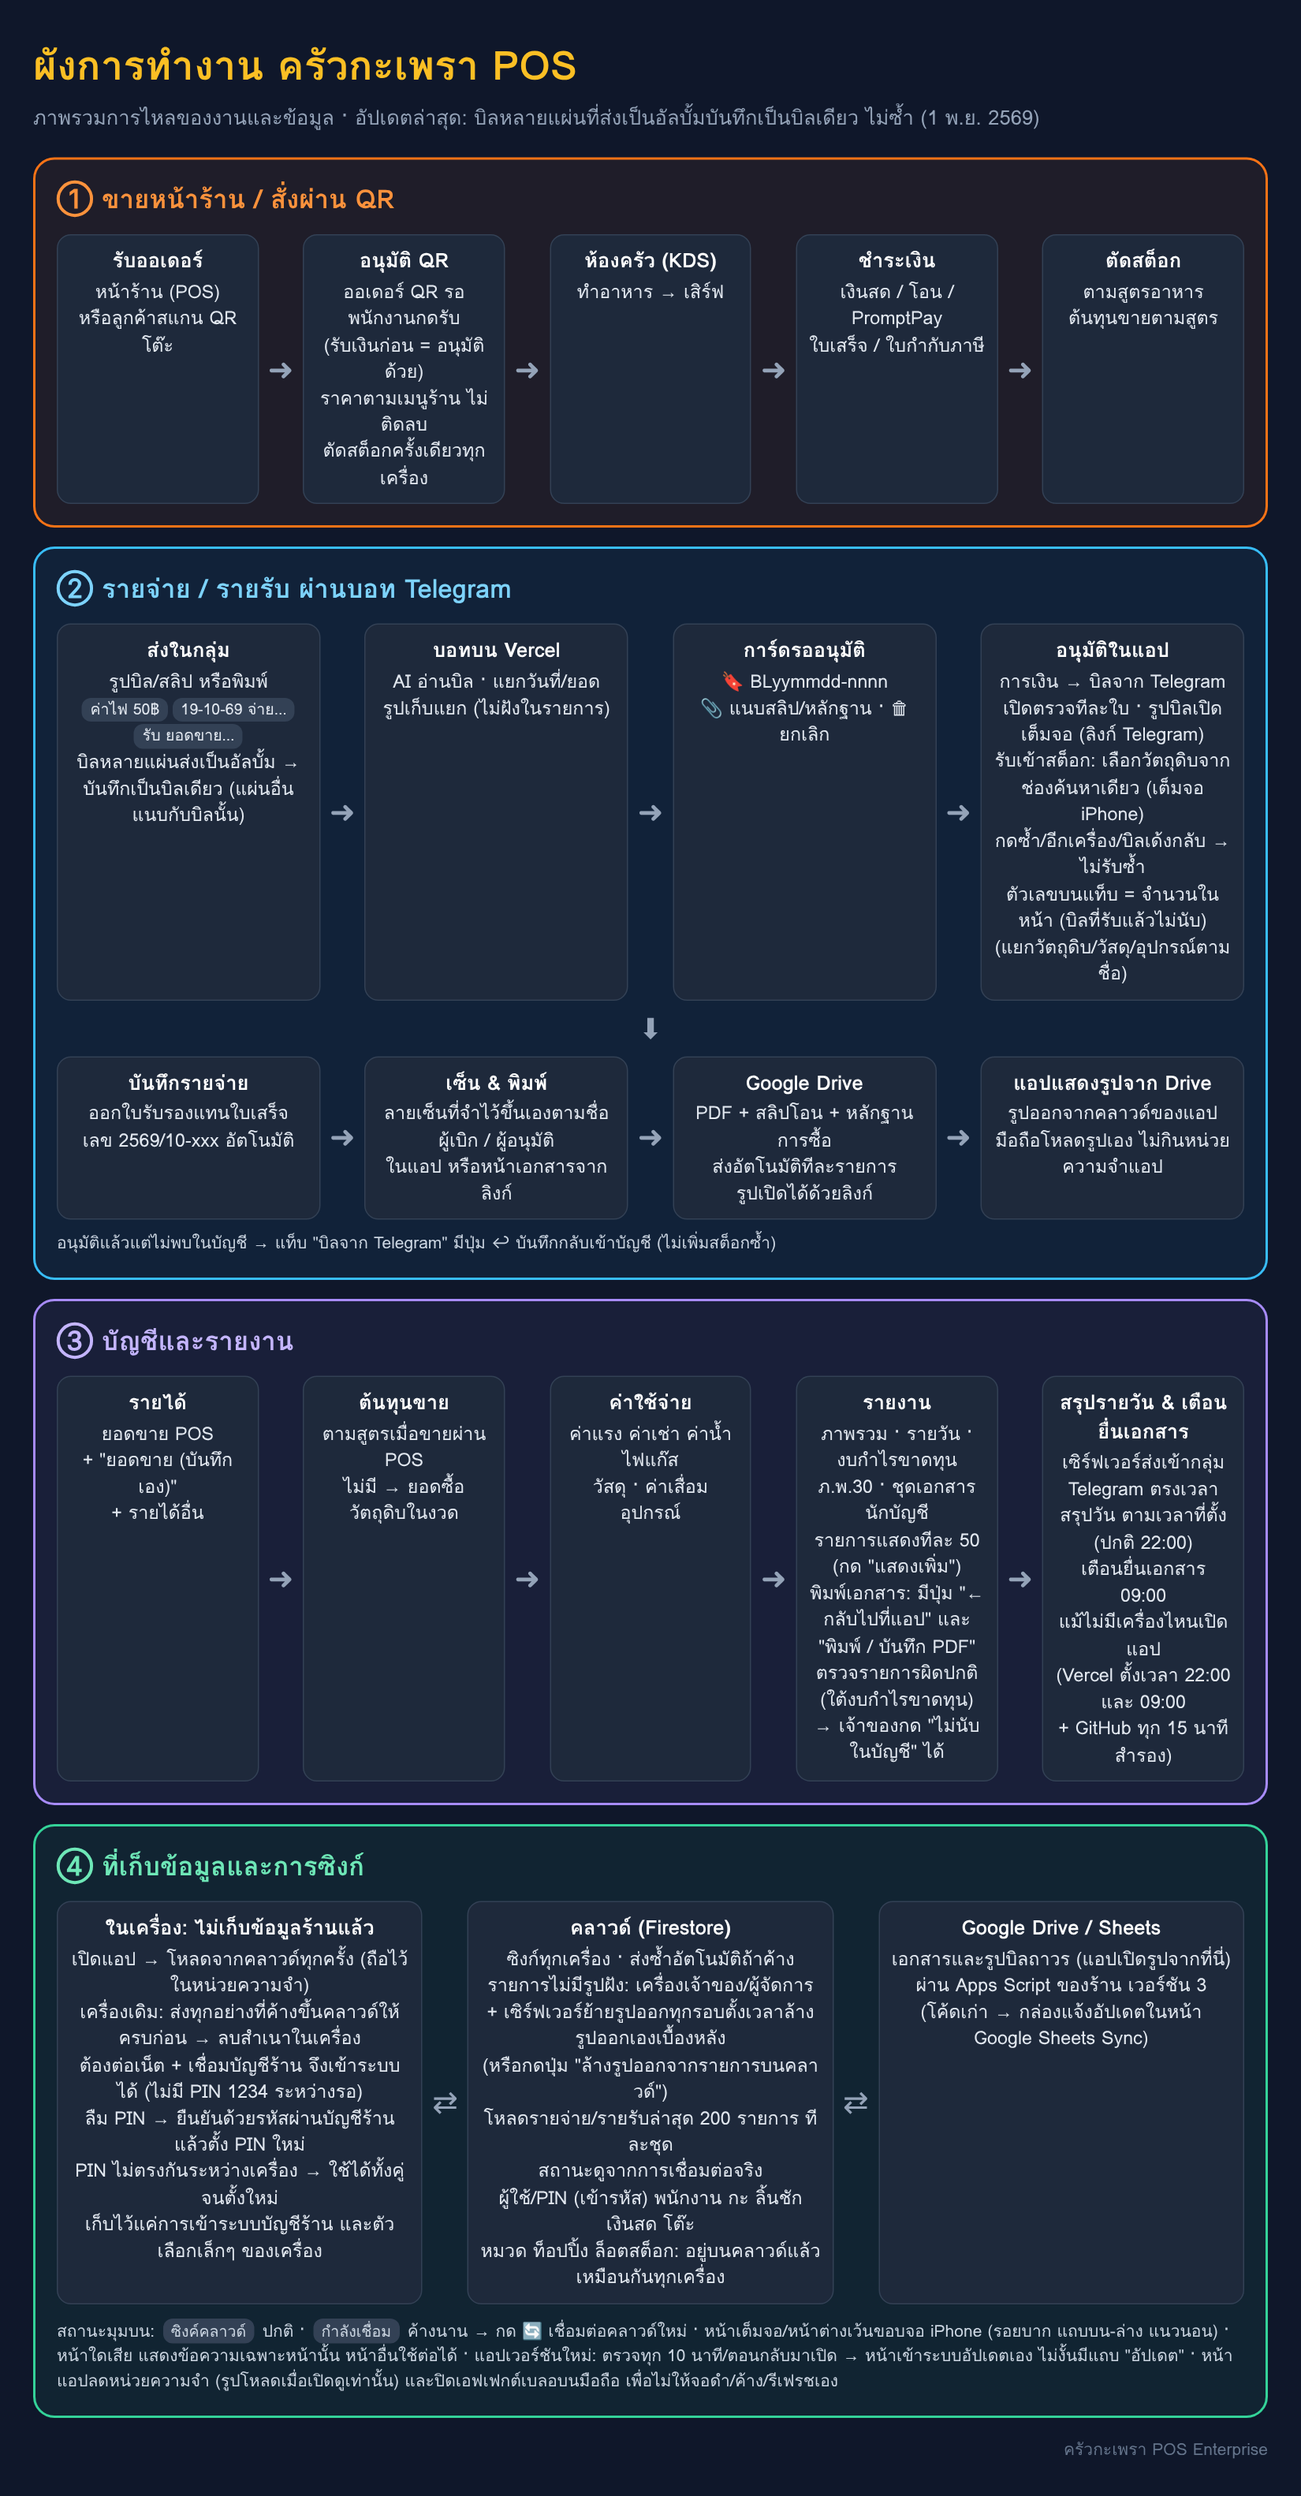
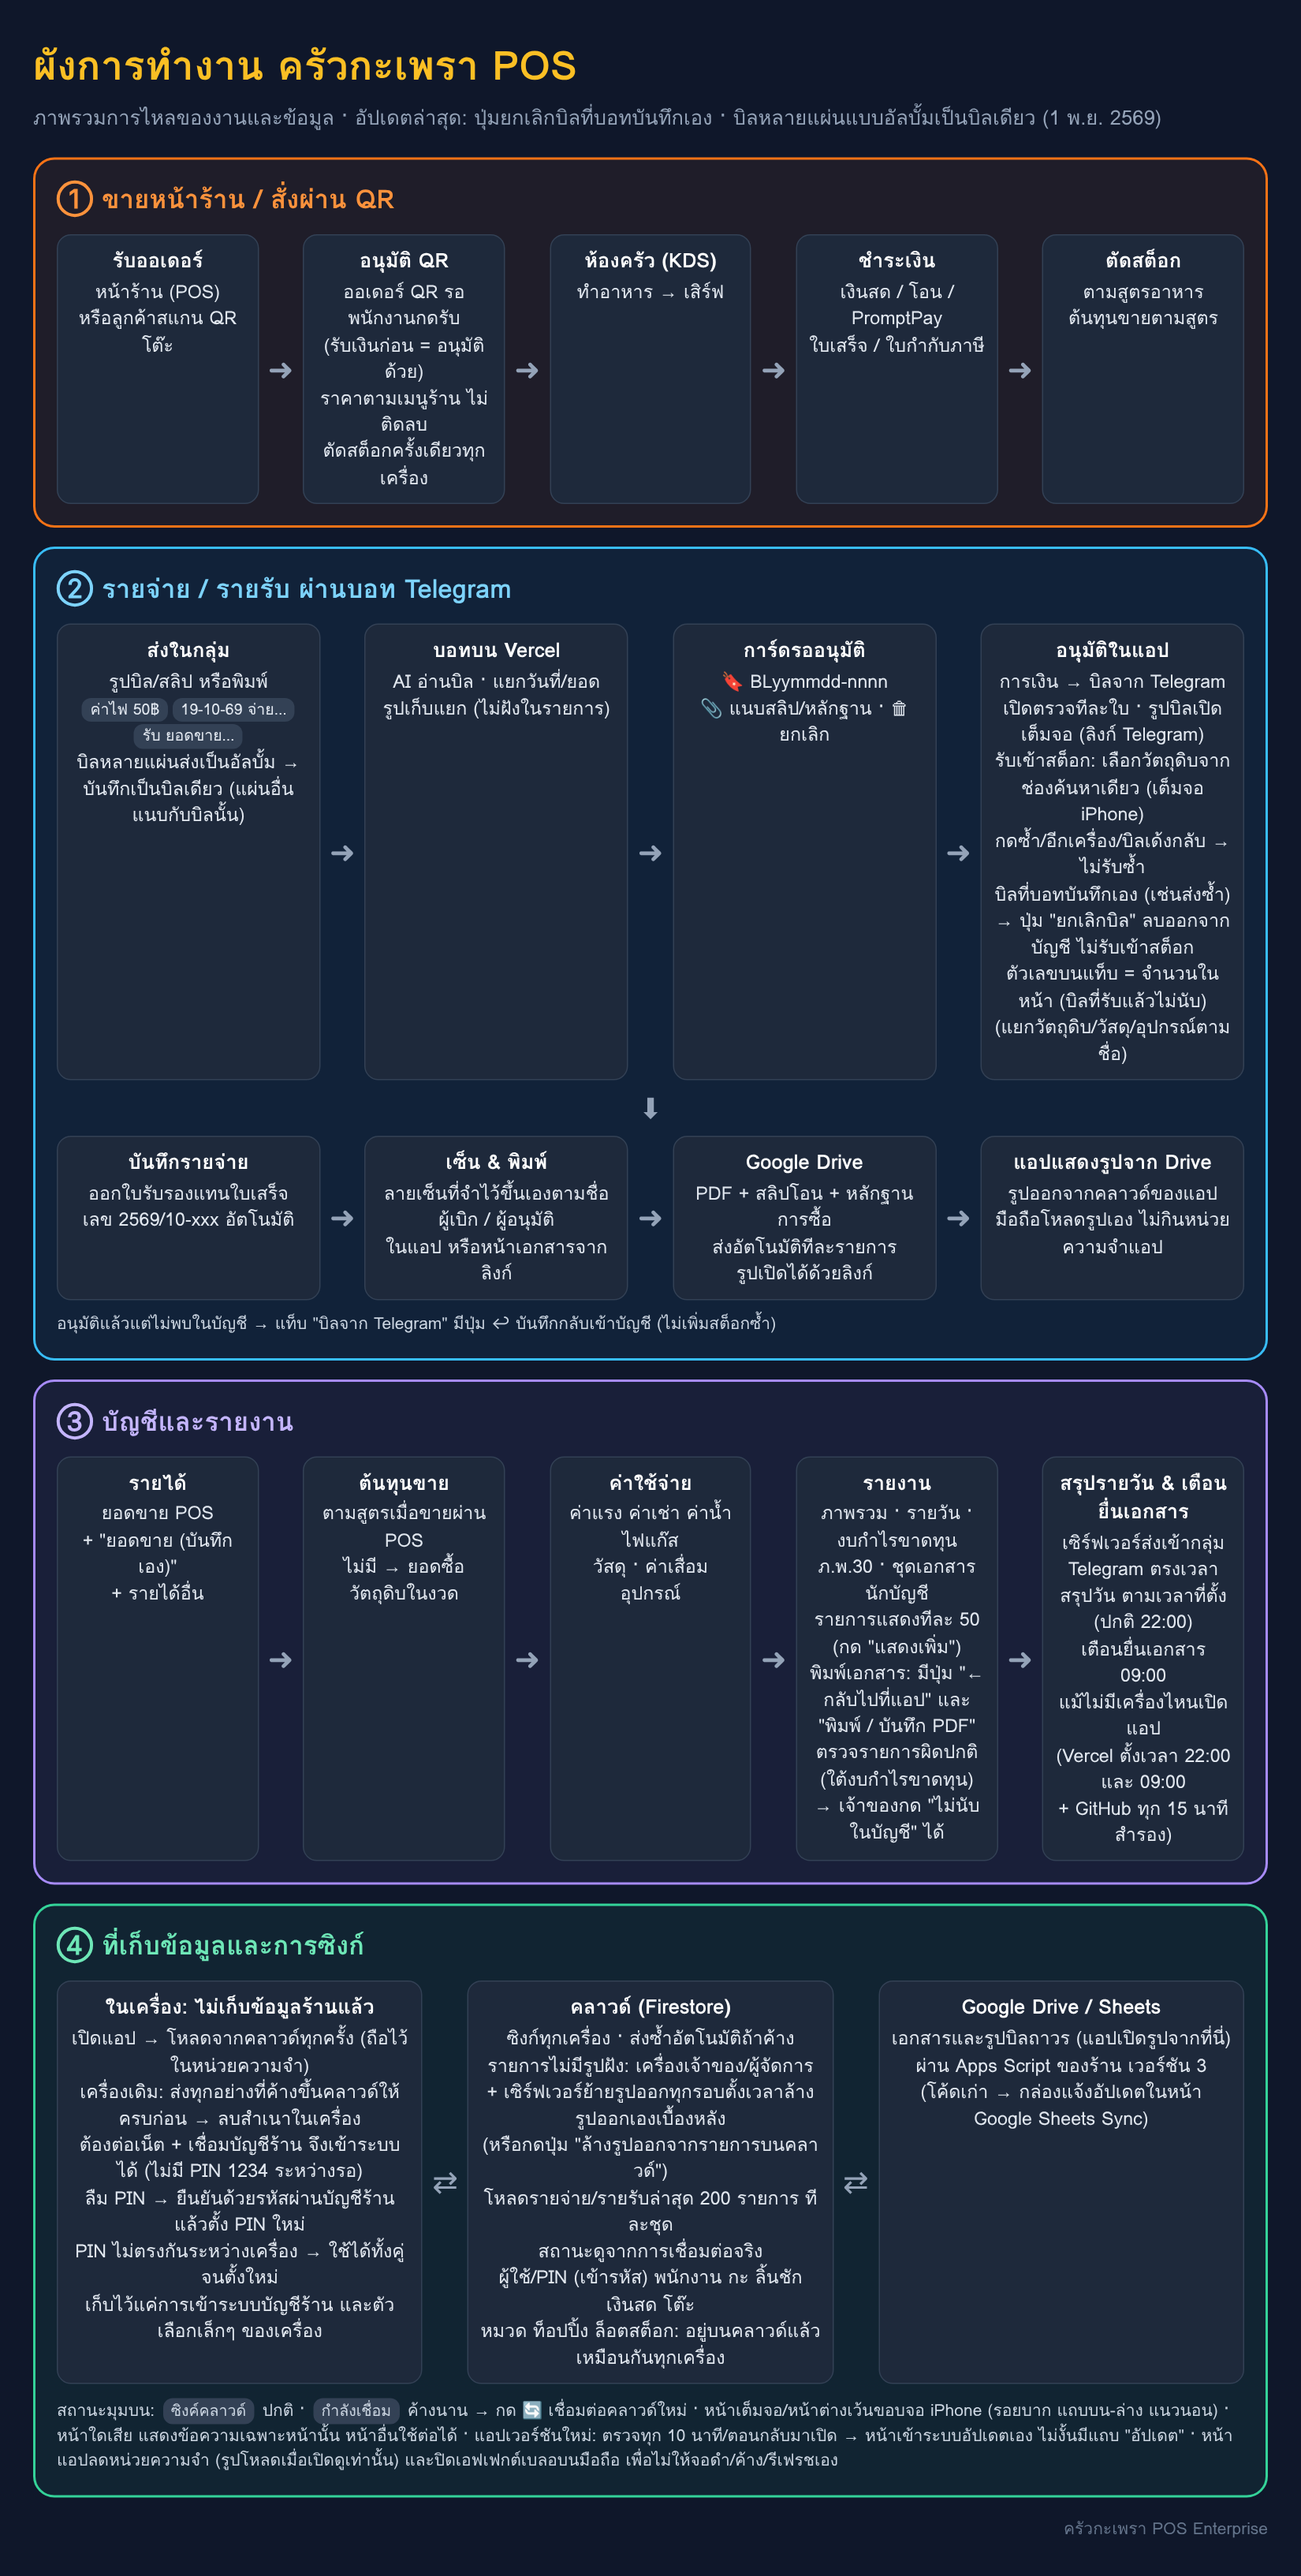
Telegram bills: cancel a bill the bot recorded by itself
A bill the bot recorded and left waiting for stock (e.g. the same bill sent
twice) only offered receive or skip stock. "ยกเลิกบิล" removes its entry from
the books, marks it rejected, nothing goes into stock, and tells the chat.

Claude-Session: https://claude.ai/code/session_01Gq3UvYW4wv3hsVCXoh5wxy

diff --git a/docs/workflow/flow.html b/docs/workflow/flow.html
@@ -17,7 +17,7 @@ h1{margin:0 0 4px;font-size:34px;color:#fbbf24}.sub{color:#94a3b8;font-size:17px
 .foot{color:#64748b;font-size:14px;margin-top:6px;text-align:right}
 </style></head><body>
 <h1>ผังการทำงาน ครัวกะเพรา POS</h1>
-<div class="sub">ภาพรวมการไหลของงานและข้อมูล · อัปเดตล่าสุด: บิลหลายแผ่นที่ส่งเป็นอัลบั้มบันทึกเป็นบิลเดียว ไม่ซ้ำ (1 พ.ย. 2569)</div>
+<div class="sub">ภาพรวมการไหลของงานและข้อมูล · อัปเดตล่าสุด: ปุ่มยกเลิกบิลที่บอทบันทึกเอง · บิลหลายแผ่นแบบอัลบั้มเป็นบิลเดียว (1 พ.ย. 2569)</div>
 
 <div class="lane pos"><h2>① ขายหน้าร้าน / สั่งผ่าน QR</h2>
 <div class="row">
@@ -33,7 +33,7 @@ h1{margin:0 0 4px;font-size:34px;color:#fbbf24}.sub{color:#94a3b8;font-size:17px
 <div class="box"><b>ส่งในกลุ่ม</b>รูปบิล/สลิป หรือพิมพ์<br><span class="tag">ค่าไฟ 50฿</span><span class="tag">19-10-69 จ่าย…</span><span class="tag">รับ ยอดขาย…</span><br>บิลหลายแผ่นส่งเป็นอัลบั้ม → บันทึกเป็นบิลเดียว (แผ่นอื่นแนบกับบิลนั้น)</div><div class="ar">➜</div>
 <div class="box"><b>บอทบน Vercel</b>AI อ่านบิล · แยกวันที่/ยอด<br>รูปเก็บแยก (ไม่ฝังในรายการ)</div><div class="ar">➜</div>
 <div class="box"><b>การ์ดรออนุมัติ</b>🔖 BLyymmdd-nnnn<br>📎 แนบสลิป/หลักฐาน · 🗑 ยกเลิก</div><div class="ar">➜</div>
-<div class="box"><b>อนุมัติในแอป</b>การเงิน → บิลจาก Telegram<br>เปิดตรวจทีละใบ · รูปบิลเปิดเต็มจอ (ลิงก์ Telegram)<br>รับเข้าสต็อก: เลือกวัตถุดิบจากช่องค้นหาเดียว (เต็มจอ iPhone)<br>กดซ้ำ/อีกเครื่อง/บิลเด้งกลับ → ไม่รับซ้ำ<br>ตัวเลขบนแท็บ = จำนวนในหน้า (บิลที่รับแล้วไม่นับ)<br>(แยกวัตถุดิบ/วัสดุ/อุปกรณ์ตามชื่อ)</div>
+<div class="box"><b>อนุมัติในแอป</b>การเงิน → บิลจาก Telegram<br>เปิดตรวจทีละใบ · รูปบิลเปิดเต็มจอ (ลิงก์ Telegram)<br>รับเข้าสต็อก: เลือกวัตถุดิบจากช่องค้นหาเดียว (เต็มจอ iPhone)<br>กดซ้ำ/อีกเครื่อง/บิลเด้งกลับ → ไม่รับซ้ำ<br>บิลที่บอทบันทึกเอง (เช่นส่งซ้ำ) → ปุ่ม "ยกเลิกบิล" ลบออกจากบัญชี ไม่รับเข้าสต็อก<br>ตัวเลขบนแท็บ = จำนวนในหน้า (บิลที่รับแล้วไม่นับ)<br>(แยกวัตถุดิบ/วัสดุ/อุปกรณ์ตามชื่อ)</div>
 </div>
 <div class="down">⬇</div>
 <div class="row">

diff --git a/src/components/telegram/TelegramInboxPanel.tsx b/src/components/telegram/TelegramInboxPanel.tsx
@@ -144,7 +144,7 @@ const formFor = (p: PendingReceipt, ingredients: Ingredient[]): Form => ({
  * approve it into the books (expense or other income), or reject it.
  */
 export const TelegramInboxPanel: React.FC<{ incomeLabels: Record<IncomeCategory, string> }> = ({ incomeLabels }) => {
-  const { settings, currentBranch, currentUser, addExpense, addIncome, ingredients, addStockLot, receiveNewIngredient, ingredientCategories = [], expenses, incomes, firebaseSyncState } = usePOS();
+  const { settings, currentBranch, currentUser, addExpense, addIncome, ingredients, addStockLot, receiveNewIngredient, ingredientCategories = [], expenses, incomes, firebaseSyncState, deleteExpense, deleteIncome } = usePOS();
   const drive = useExpenseDrive();
   const [items, setItems] = useTelegramInbox();
   // What was typed into the bills survives a reload of the page (same tab)
@@ -529,6 +529,18 @@ export const TelegramInboxPanel: React.FC<{ incomeLabels: Record<IncomeCategory,
     patch(p.id, { stockPending: false });
   };
 
+  /** A bill the bot recorded by itself (e.g. sent twice): its entry leaves the books, nothing goes into stock */
+  const cancelRecorded = (p: PendingReceipt) => {
+    const id = p.recordId || '';
+    const rec = id.startsWith('inc-') ? incomes.find(i => i.id === id) : expenses.find(e => e.id === id);
+    const what = rec ? `${rec.title} ${baht(rec.amount)}` : p.data?.title || 'บิลนี้';
+    if (!window.confirm(`ยกเลิกบิลนี้?\n${what}\nรายการ${id.startsWith('inc-') ? 'รายรับ' : 'รายจ่าย'}จะถูกลบออกจากบัญชี และไม่รับเข้าสต็อก`)) return;
+    if (id.startsWith('inc-')) deleteIncome(id);
+    else if (id) deleteExpense(id);
+    patch(p.id, { status: 'rejected', stockPending: false, decidedBy: currentUser?.name, decidedAt: new Date().toISOString() });
+    reply(p, `🗑 ยกเลิกบิลนี้แล้ว ลบออกจากบัญชี (${currentUser?.name || 'ผู้จัดการ'}): ${what}`);
+  };
+
   const reject = (p: PendingReceipt) => {
     if (!window.confirm('ไม่อนุมัติบิลนี้?')) return;
     patch(p.id, { status: 'rejected', decidedBy: currentUser?.name, decidedAt: new Date().toISOString() });
@@ -874,6 +886,14 @@ export const TelegramInboxPanel: React.FC<{ incomeLabels: Record<IncomeCategory,
                   </button>
                   <button type="button" disabled={!canApprove} onClick={() => skipStock(p)} className="h-11 px-4 rounded-xl border border-slate-700 text-slate-300 disabled:opacity-40">
                     ไม่ต้องรับเข้าสต็อก
+                  </button>
+                  <button
+                    type="button"
+                    disabled={!canApprove || busy === p.id}
+                    onClick={() => cancelRecorded(p)}
+                    className="h-11 px-4 rounded-xl border border-rose-700/60 text-rose-300 flex items-center gap-1.5 disabled:opacity-40"
+                  >
+                    <XCircle className="w-4 h-4" /> ยกเลิกบิล
                   </button>
                 </div>
               ) : (
